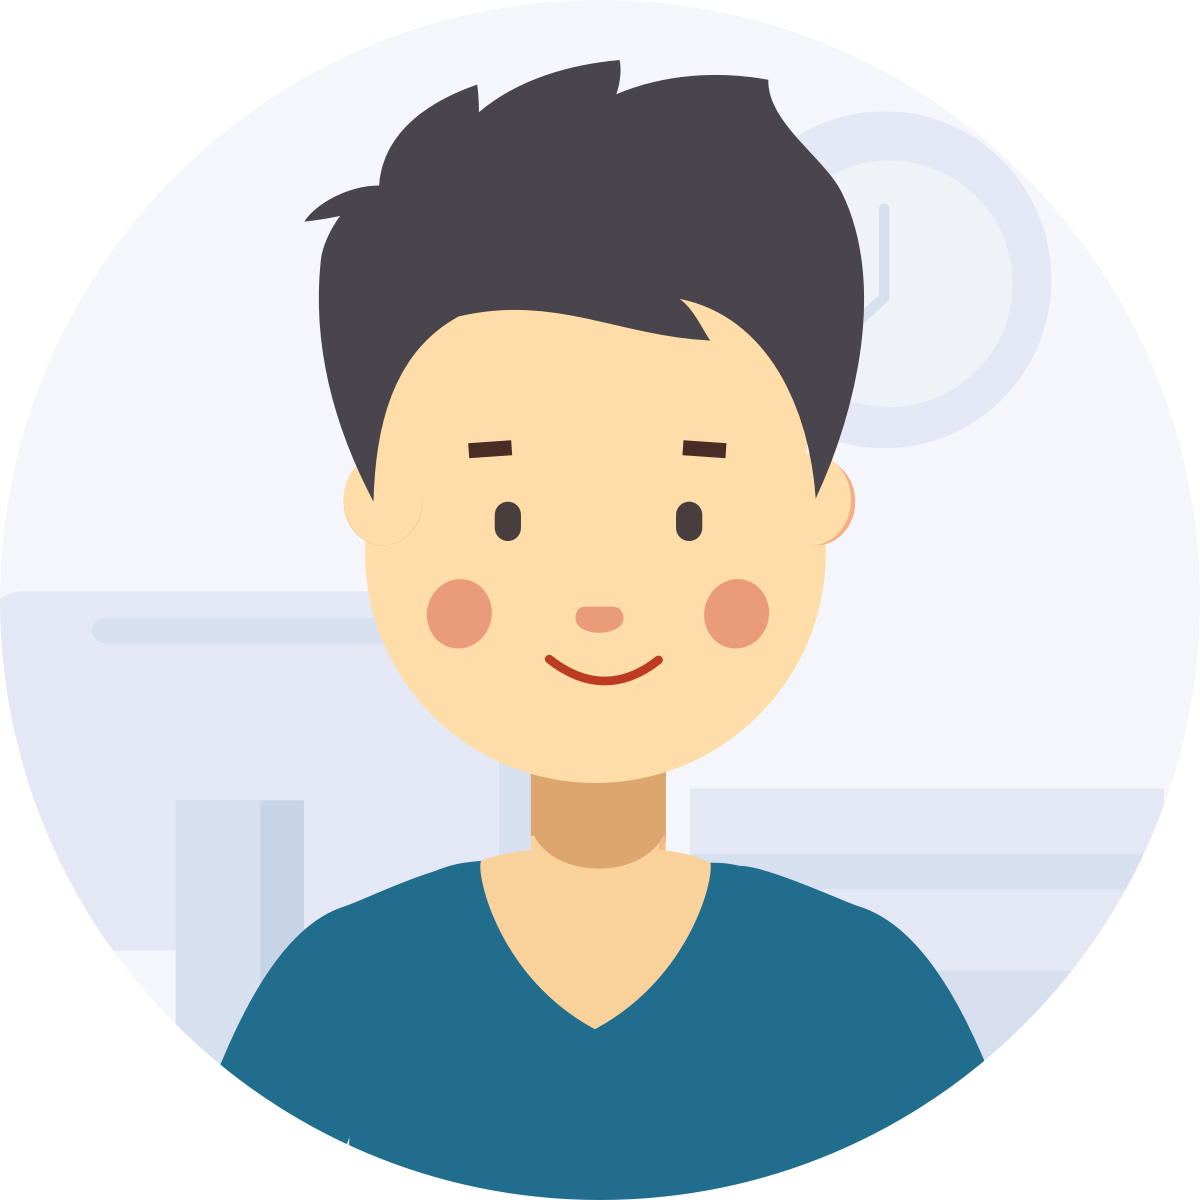
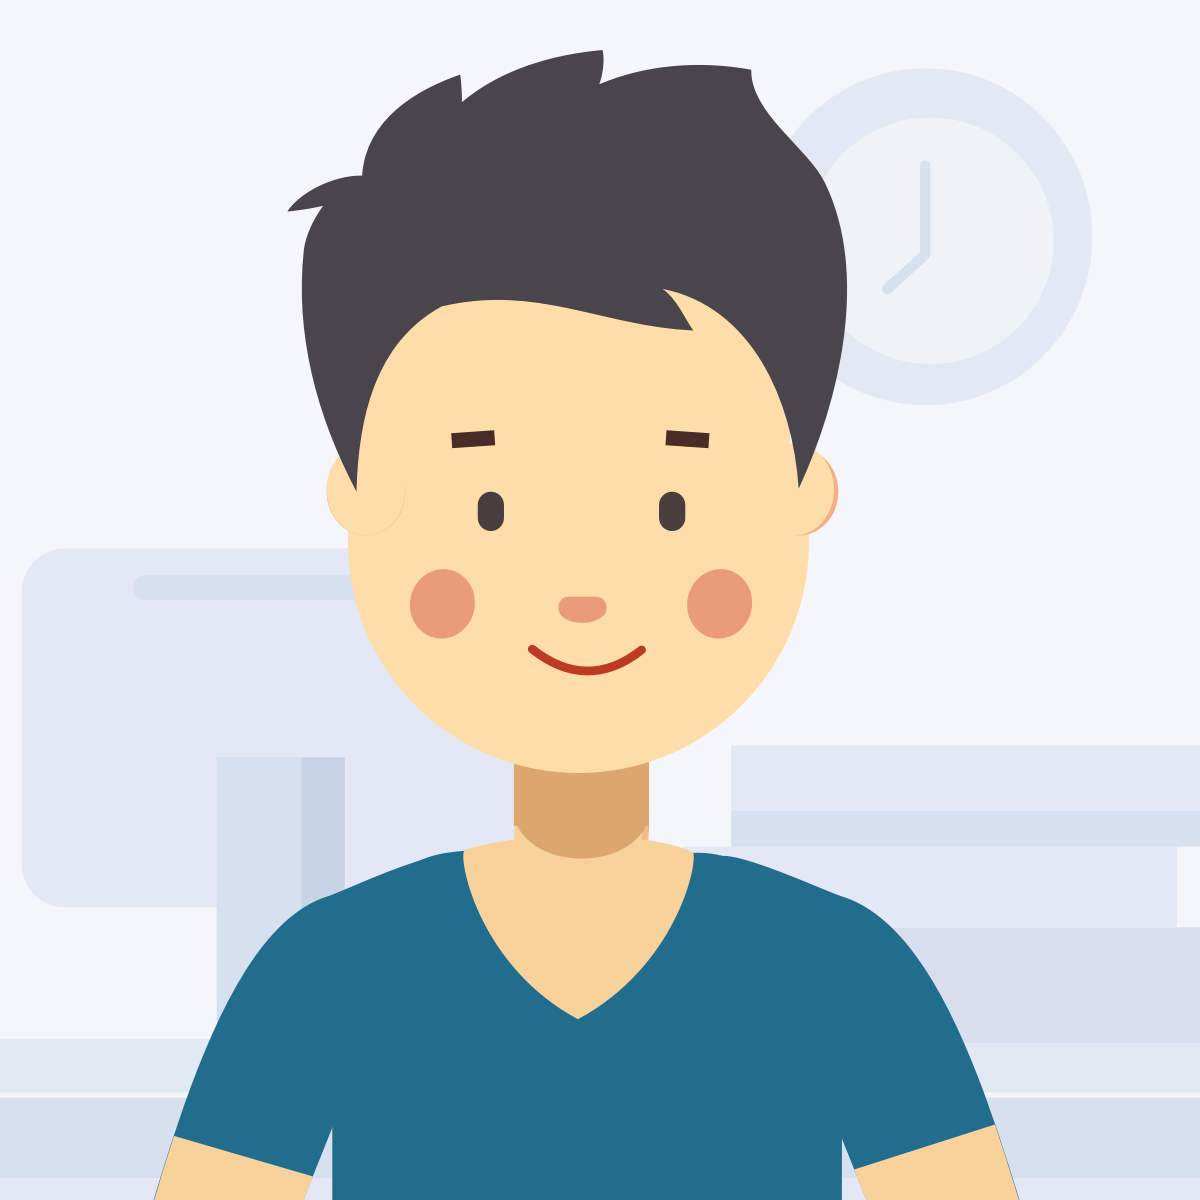
Update opengraph image and manifest image

diff --git a/config/index.js b/config/index.js
@@ -7,7 +7,7 @@ module.exports = {
   description:
     'Fin Mavis is a Frontend Developer based in Jakarta. Currently work as a Web Engineer at Style Theory.',
   ogImage: '/images/opengraph.png',
-  manifestImage: 'static/images/opengraph.png',
+  manifestImage: 'static/images/manifest.png',
   themeColor: '#216d8e',
   email: 'fin@finmavis.dev',
   social: {
